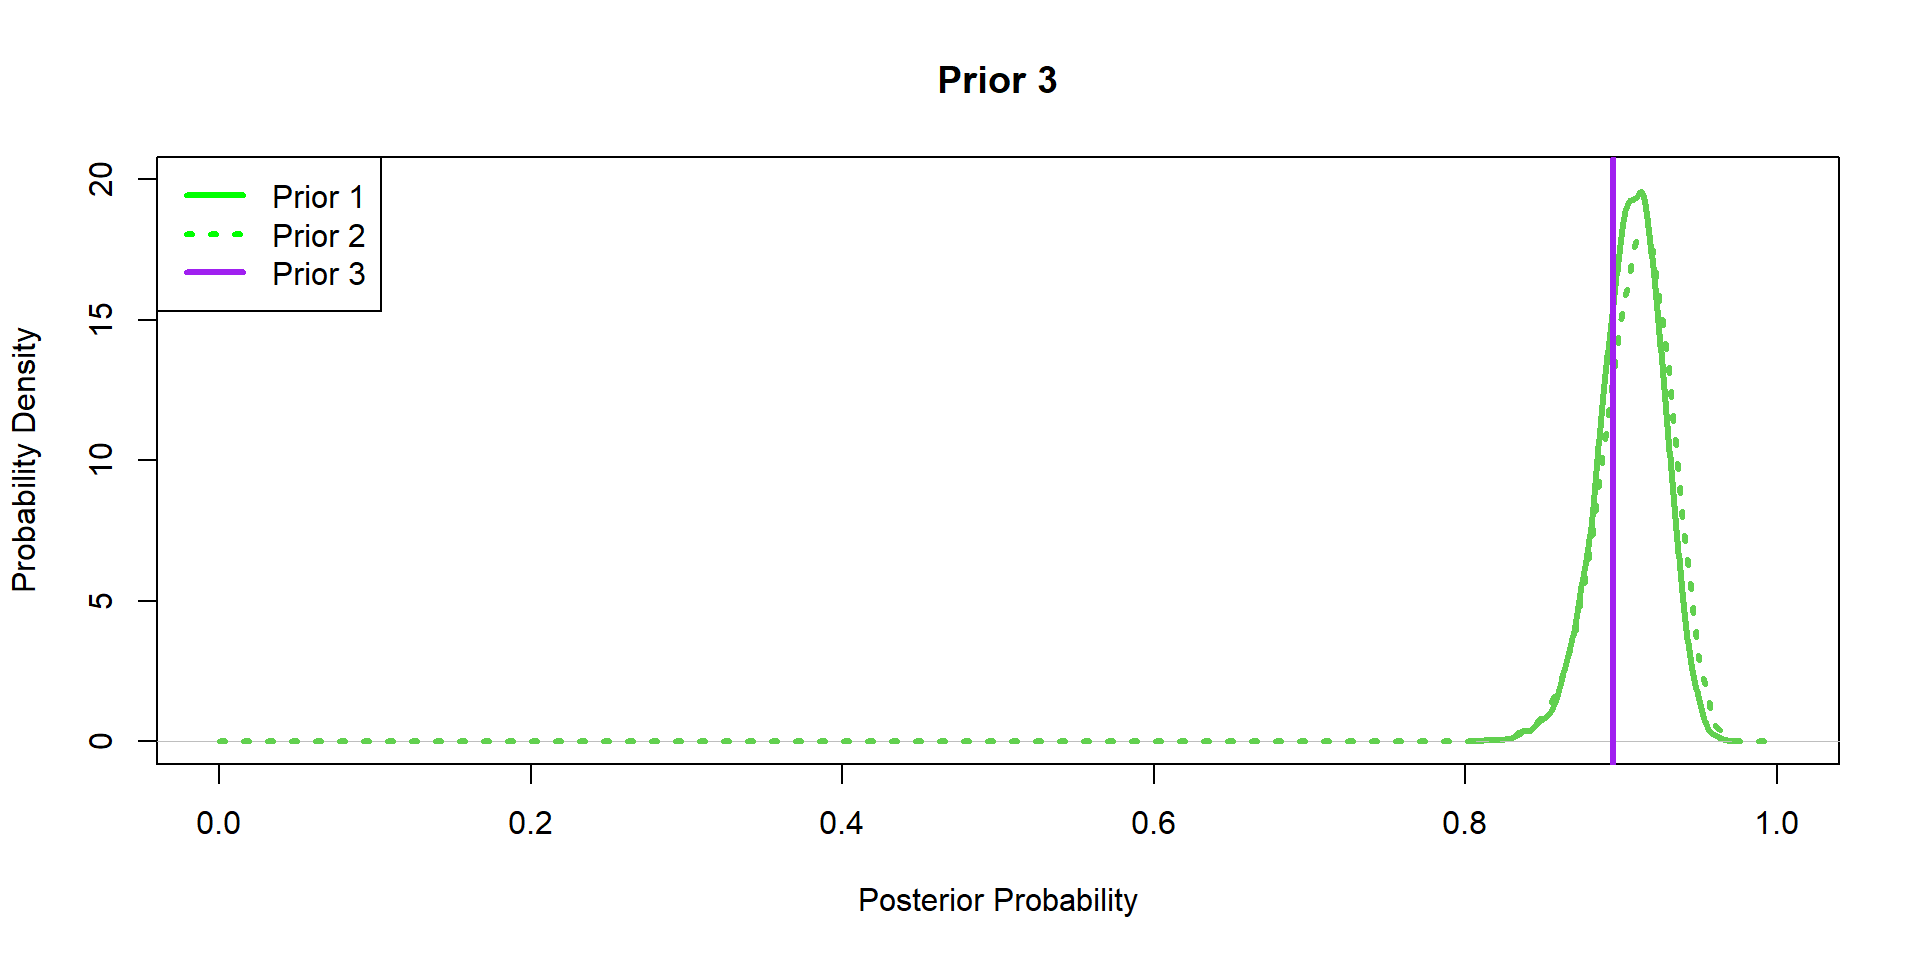
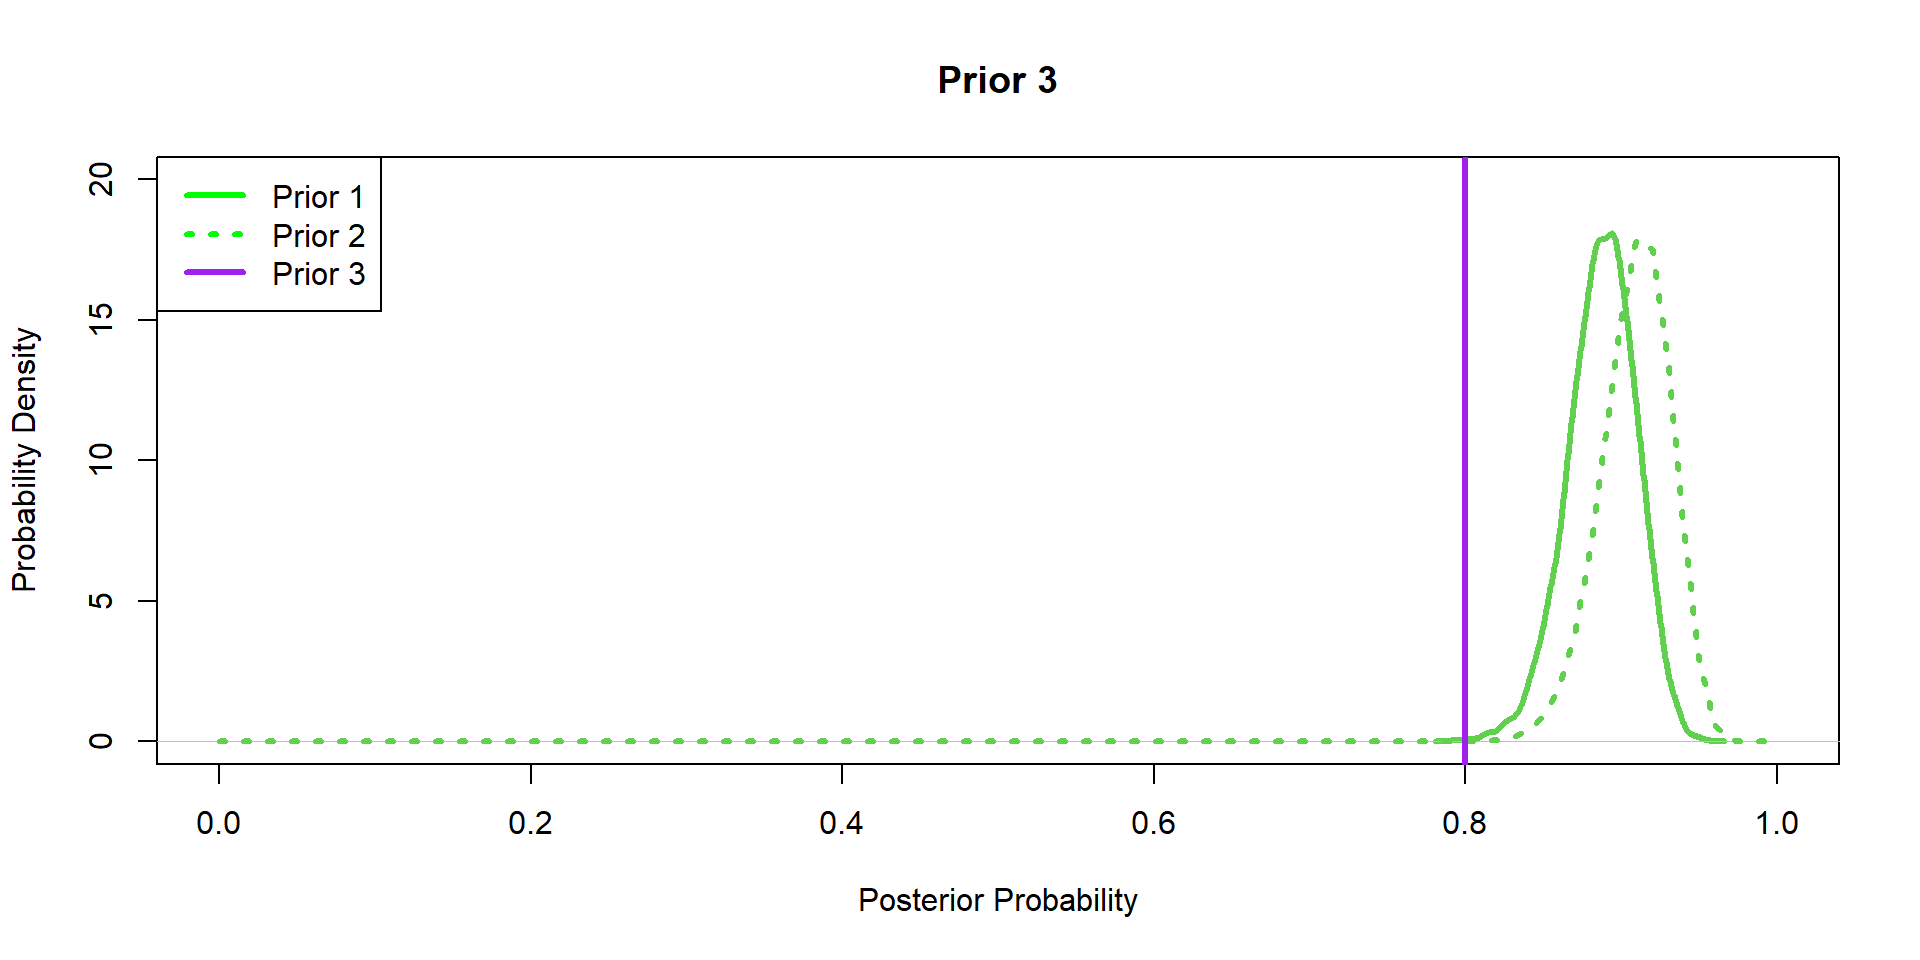
update week 7

Changed region(s): [[0.75, 0.1875, 0.9062, 0.7812]]

diff --git a/Week 7/Bayesian-speaker.html b/Week 7/Bayesian-speaker.html
@@ -1012,11 +1012,11 @@ P(p|y) \sim \text{Beta}(\alpha^*,\beta^*)\\
 <section id="hippos-more-data-prior-1" class="slide level2">
 <h2>Hippos: More data! (Prior 1)</h2>
 <div class="cell">
-<div class="sourceCode cell-code" id="cb22"><pre class="sourceCode numberSource r number-lines code-with-copy"><code class="sourceCode r"><span id="cb22-1"><a href="#cb22-1"></a>y2<span class="ot">=</span><span class="fu">c</span>(<span class="dv">0</span>,<span class="dv">1</span>,<span class="dv">1</span>,<span class="dv">0</span>,<span class="dv">1</span>,<span class="dv">1</span>,<span class="dv">1</span>,<span class="dv">1</span>,<span class="dv">1</span>,<span class="dv">1</span>,<span class="dv">1</span>,<span class="dv">1</span>,<span class="dv">1</span>,<span class="dv">1</span>,<span class="dv">1</span>,<span class="dv">1</span>,<span class="dv">1</span>,<span class="dv">1</span>,<span class="dv">0</span>,</span>
-<span id="cb22-2"><a href="#cb22-2"></a>     <span class="dv">1</span>,<span class="dv">1</span>,<span class="dv">1</span>,<span class="dv">1</span>,<span class="dv">1</span>,<span class="dv">1</span>,<span class="dv">1</span>,<span class="dv">1</span>,<span class="dv">1</span>,<span class="dv">1</span>,<span class="dv">1</span>,<span class="dv">1</span>,<span class="dv">1</span>,<span class="dv">1</span>,<span class="dv">1</span>,<span class="dv">1</span>,<span class="dv">1</span>,<span class="dv">1</span>,<span class="dv">0</span>)</span>
+<div class="sourceCode cell-code" id="cb22"><pre class="sourceCode numberSource r number-lines code-with-copy"><code class="sourceCode r"><span id="cb22-1"><a href="#cb22-1"></a>y2<span class="ot">=</span><span class="fu">c</span>(<span class="dv">0</span>,<span class="dv">0</span>,<span class="dv">0</span>,<span class="dv">0</span>,<span class="dv">0</span>,<span class="dv">0</span>,<span class="dv">0</span>,<span class="dv">1</span>,<span class="dv">1</span>,<span class="dv">1</span>,<span class="dv">1</span>,<span class="dv">1</span>,<span class="dv">1</span>,<span class="dv">1</span>,<span class="dv">1</span>,<span class="dv">1</span>,<span class="dv">1</span>,<span class="dv">1</span>,<span class="dv">1</span>,<span class="dv">1</span>,<span class="dv">0</span>,</span>
+<span id="cb22-2"><a href="#cb22-2"></a>     <span class="dv">1</span>,<span class="dv">1</span>,<span class="dv">1</span>,<span class="dv">1</span>,<span class="dv">1</span>,<span class="dv">1</span>,<span class="dv">1</span>,<span class="dv">1</span>,<span class="dv">1</span>,<span class="dv">1</span>,<span class="dv">1</span>,<span class="dv">1</span>,<span class="dv">1</span>,<span class="dv">1</span>,<span class="dv">1</span>,<span class="dv">1</span>,<span class="dv">1</span>,<span class="dv">1</span>,<span class="dv">1</span>)</span>
 <span id="cb22-3"><a href="#cb22-3"></a><span class="fu">length</span>(y2)</span></code><button title="Copy to Clipboard" class="code-copy-button"><i class="bi"></i></button></pre></div>
 <div class="cell-output cell-output-stdout">
-<pre><code>[1] 38</code></pre>
+<pre><code>[1] 40</code></pre>
 </div>
 </div>
 <div class="fragment">

diff --git a/Week 7/Bayesian.html b/Week 7/Bayesian.html
@@ -1012,11 +1012,11 @@ P(p|y) \sim \text{Beta}(\alpha^*,\beta^*)\\
 <section id="hippos-more-data-prior-1" class="slide level2">
 <h2>Hippos: More data! (Prior 1)</h2>
 <div class="cell">
-<div class="sourceCode cell-code" id="cb22"><pre class="sourceCode numberSource r number-lines code-with-copy"><code class="sourceCode r"><span id="cb22-1"><a href="#cb22-1"></a>y2<span class="ot">=</span><span class="fu">c</span>(<span class="dv">0</span>,<span class="dv">1</span>,<span class="dv">1</span>,<span class="dv">0</span>,<span class="dv">1</span>,<span class="dv">1</span>,<span class="dv">1</span>,<span class="dv">1</span>,<span class="dv">1</span>,<span class="dv">1</span>,<span class="dv">1</span>,<span class="dv">1</span>,<span class="dv">1</span>,<span class="dv">1</span>,<span class="dv">1</span>,<span class="dv">1</span>,<span class="dv">1</span>,<span class="dv">1</span>,<span class="dv">0</span>,</span>
-<span id="cb22-2"><a href="#cb22-2"></a>     <span class="dv">1</span>,<span class="dv">1</span>,<span class="dv">1</span>,<span class="dv">1</span>,<span class="dv">1</span>,<span class="dv">1</span>,<span class="dv">1</span>,<span class="dv">1</span>,<span class="dv">1</span>,<span class="dv">1</span>,<span class="dv">1</span>,<span class="dv">1</span>,<span class="dv">1</span>,<span class="dv">1</span>,<span class="dv">1</span>,<span class="dv">1</span>,<span class="dv">1</span>,<span class="dv">1</span>,<span class="dv">0</span>)</span>
+<div class="sourceCode cell-code" id="cb22"><pre class="sourceCode numberSource r number-lines code-with-copy"><code class="sourceCode r"><span id="cb22-1"><a href="#cb22-1"></a>y2<span class="ot">=</span><span class="fu">c</span>(<span class="dv">0</span>,<span class="dv">0</span>,<span class="dv">0</span>,<span class="dv">0</span>,<span class="dv">0</span>,<span class="dv">0</span>,<span class="dv">0</span>,<span class="dv">1</span>,<span class="dv">1</span>,<span class="dv">1</span>,<span class="dv">1</span>,<span class="dv">1</span>,<span class="dv">1</span>,<span class="dv">1</span>,<span class="dv">1</span>,<span class="dv">1</span>,<span class="dv">1</span>,<span class="dv">1</span>,<span class="dv">1</span>,<span class="dv">1</span>,<span class="dv">0</span>,</span>
+<span id="cb22-2"><a href="#cb22-2"></a>     <span class="dv">1</span>,<span class="dv">1</span>,<span class="dv">1</span>,<span class="dv">1</span>,<span class="dv">1</span>,<span class="dv">1</span>,<span class="dv">1</span>,<span class="dv">1</span>,<span class="dv">1</span>,<span class="dv">1</span>,<span class="dv">1</span>,<span class="dv">1</span>,<span class="dv">1</span>,<span class="dv">1</span>,<span class="dv">1</span>,<span class="dv">1</span>,<span class="dv">1</span>,<span class="dv">1</span>,<span class="dv">1</span>)</span>
 <span id="cb22-3"><a href="#cb22-3"></a><span class="fu">length</span>(y2)</span></code><button title="Copy to Clipboard" class="code-copy-button"><i class="bi"></i></button></pre></div>
 <div class="cell-output cell-output-stdout">
-<pre><code>[1] 38</code></pre>
+<pre><code>[1] 40</code></pre>
 </div>
 </div>
 <div class="fragment">

diff --git a/index.html b/index.html
@@ -530,7 +530,7 @@ body, td {
 <ul>
 <li><p>Lecture: <a href="/Week 7/Bayesian.html">Bayesian</a></p></li>
 <li><p>Lecture Code: <a href="/Week 7/Bayesian.R">Bayesian.R</a></p></li>
-<li><p>Data Download: <a href="/Week 7/counts.trees1.csv">Data Set 1</a>, and <a href="/Week 7/counts.trees2.csv">Data Set 1</a></p></li>
+<li><p>Data Download: <a href="/Week 7/counts.trees1.csv">Data Set 1</a>, and <a href="/Week 7/counts.trees2.csv">Data Set 2</a></p></li>
 <li><p>Jags Code Example: <a href="/Week 7/jags.model.script.r">Script</a>, and <a href="/Week 7/model.jags.r">Model</a></p></li>
 <li><p>Stan Code Example: <a href="/Week 7/stan.code.r">Script</a></p></li>
 <li><p>Extra Model Files: MCMC Algorithim Example: <a href="/Week 7/binom.logit.script.R">R Script</a>, and <a href="/Week 7/binom.logit.mcmc.R">MCMC Algorithim Function</a></p></li>
